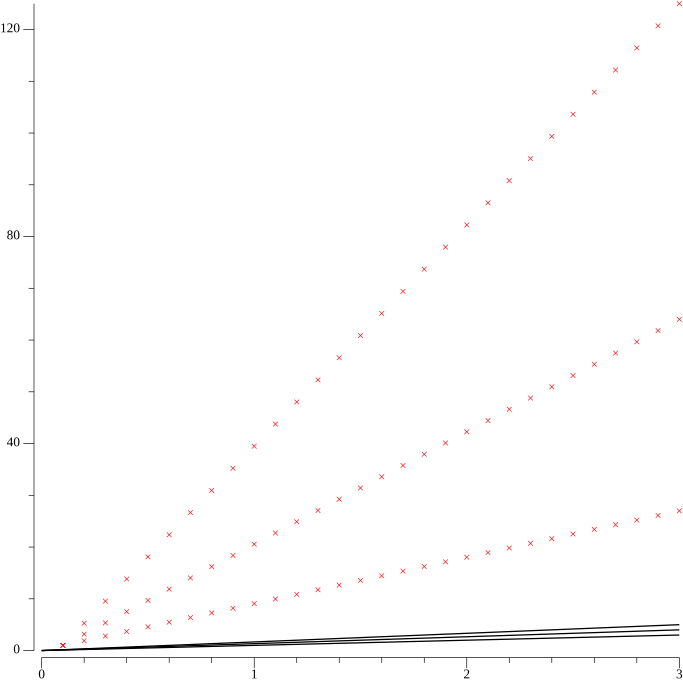
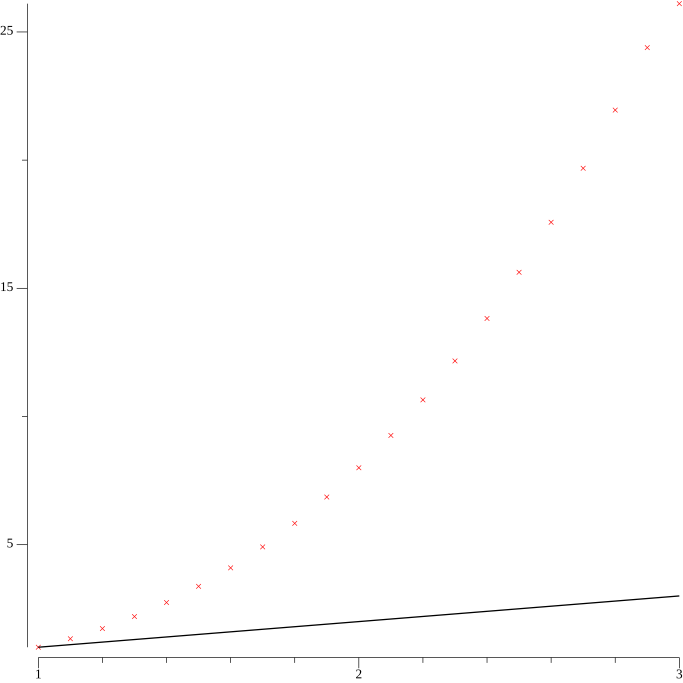
updated 03 ex.

Changed region(s): [[0.0, 0.0, 1.0, 0.9531], [0.7994, 0.8609, 0.8609, 0.8917]]

diff --git a/03/main.go b/03/main.go
@@ -108,26 +108,26 @@ func plotData(path string, xys plotter.XYs) error {
 	p.Add(s)
 
 	// L on out.png
-	l, err := plotter.NewLine(plotter.XYs{{0, 0}, {3, 3}})
+	l, err := plotter.NewLine(plotter.XYs{{1, 1}, {3, 3}})
 
 	if err != nil {
 		return fmt.Errorf("could not create line: %v", err)
 	}
 	p.Add(l)
 
-	l, err = plotter.NewLine(plotter.XYs{{0, 0}, {3, 4}})
+	// l, err = plotter.NewLine(plotter.XYs{{0, 0}, {3, 4}})
 
-	if err != nil {
-		return fmt.Errorf("could not create line: %v", err)
-	}
-	p.Add(l)
+	// if err != nil {
+	// 	return fmt.Errorf("could not create line: %v", err)
+	// }
+	// p.Add(l)
 
-	l, err = plotter.NewLine(plotter.XYs{{0, 0}, {3, 5}})
+	// l, err = plotter.NewLine(plotter.XYs{{0, 0}, {3, 5}})
 
-	if err != nil {
-		return fmt.Errorf("could not create line: %v", err)
-	}
-	p.Add(l)
+	// if err != nil {
+	// 	return fmt.Errorf("could not create line: %v", err)
+	// }
+	// p.Add(l)
 
 	wt, err := p.WriterTo(512, 512, "png")
 	if err != nil {
